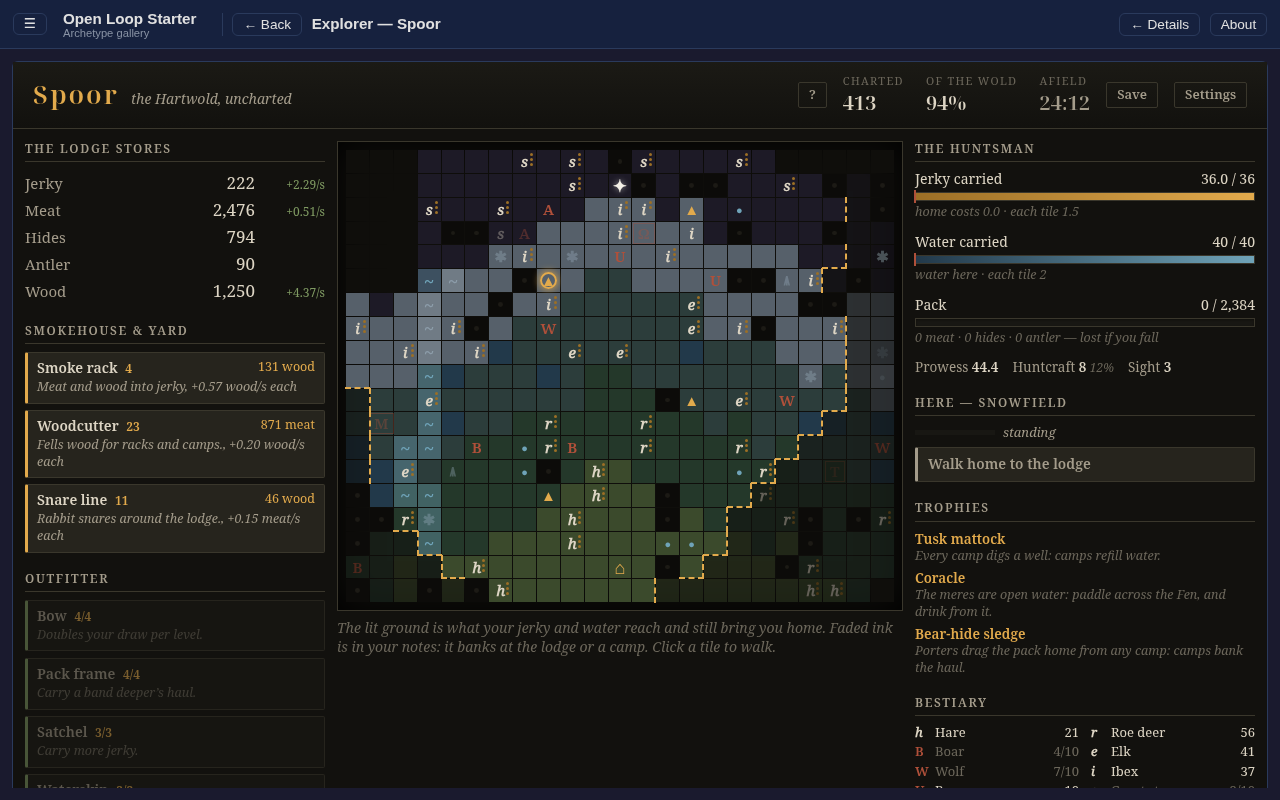
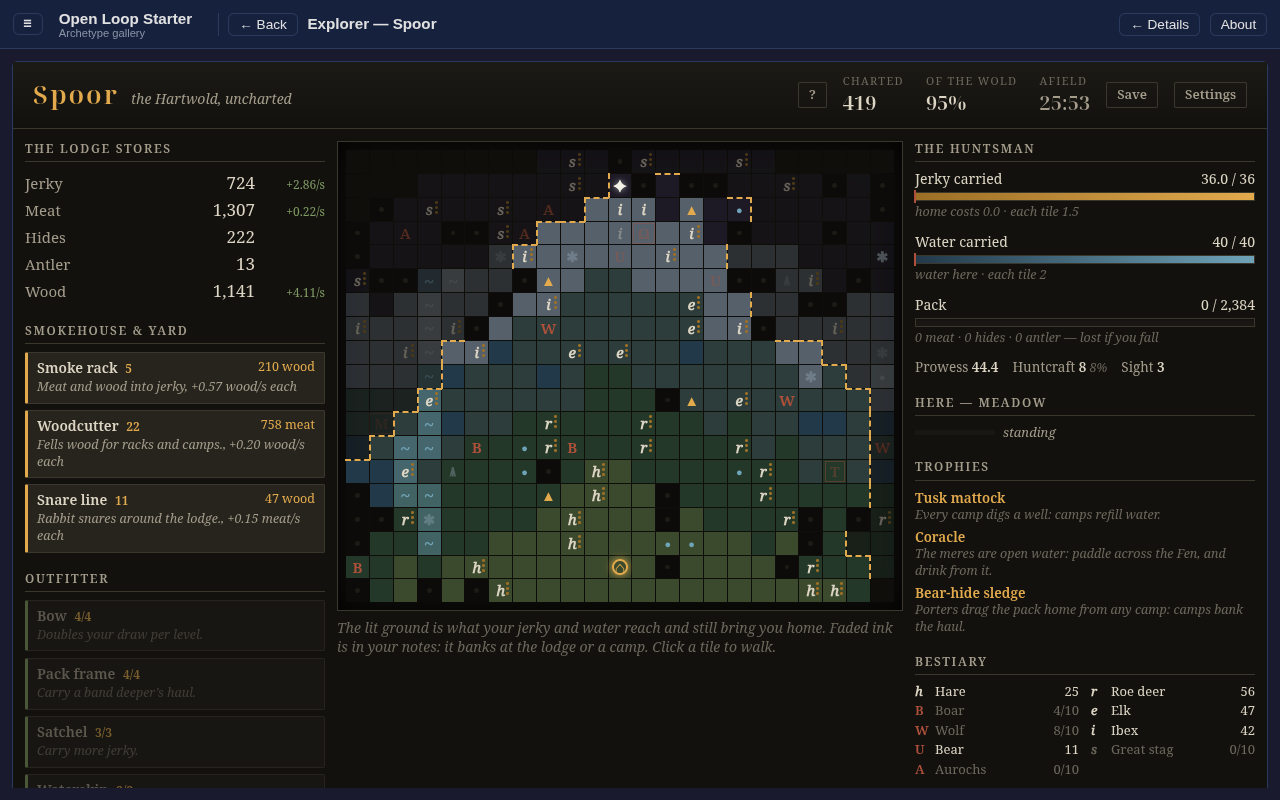
balance(explorer): the walker is a tick handler
seatWalker runs the walker every WALKER_EVERY game seconds on the tick driver; runArc and beat-saves seat it around runUntil, so until only reads. beat-saves reads its saves in a read-only handler registered before the seat, where the old loop read them: the walker leaves a restock point in the turn it arrives. Probes and beat windows are unchanged. 2-coracle and 3-deepwood were already stale against the game, so they are regenerated and re-shot.

Refs #63

diff --git a/src/showcase/archetypes/explorer/shots/beat-saves.ts b/src/showcase/archetypes/explorer/shots/beat-saves.ts
@@ -5,17 +5,18 @@
  * root `game.json`'s explorer card).
  *
  * Each save waits past its beat for the huntsman to stand idle at the lodge or
- * a camp: the notes are banked, and nothing walks on the reloaded screen.
+ * a camp before the walker's turn: the notes are banked, and nothing walks on
+ * the reloaded screen.
  *
  * Run: pnpm exec vite-node src/showcase/archetypes/explorer/shots/beat-saves.ts
  */
 import { writeFileSync } from 'node:fs';
 import { join } from 'node:path';
-import { seedRNG } from '@open-loop/engine';
+import { runUntil, seedRNG } from '@open-loop/engine';
 import { createExplorerEngine } from '../engine';
 import { getChronicle, getHuntsman, getWold } from '../modules';
 import { DT } from '../balance/_engine';
-import { createWalker } from '../balance/_walker';
+import { seatWalker } from '../balance/_walker';
 
 /** The arc probe's fastest default seed. */
 const SEED = 11;
@@ -23,13 +24,12 @@ const MAX_SIM = 3600;
 
 const { engine } = createExplorerEngine({ persistenceNamespace: 'beat-saves' });
 engine.start();
-engine.tickDriver.stop(); // the loop below drives the ticks
+engine.tickDriver.stop(); // runUntil below drives the ticks
 seedRNG(SEED);
 
 const chronicle = getChronicle();
 const man = getHuntsman();
 const wold = getWold();
-const walker = createWalker();
 
 const fired = (label: string) => chronicle.beats.value.some((b) => b.label === label);
 const calm = () => man.action.value === 'idle' && wold.isRestock(man.pos.value.x, man.pos.value.y);
@@ -43,16 +43,35 @@ const BEATS: { file: string; beat: string }[] = [
 
 const dir = import.meta.dirname;
 let next = 0;
-for (let sim = DT; sim < MAX_SIM && next < BEATS.length; sim += DT) {
-  engine.tickDriver.processInterval(DT);
-  if (fired(BEATS[next]!.beat) && calm()) {
-    const { file, beat } = BEATS[next]!;
-    writeFileSync(join(dir, `${file}.save`), engine.saveManager!.exportSave() + '\n');
-    const at = chronicle.beats.value.find((b) => b.label === beat)!.at;
-    console.log(`${file}: '${beat}' at ${at}s, saved at sim ${sim}s`);
-    next++;
-  }
-  walker.step();
+let pending: string | null = null;
+// Registered before the seat, so it reads each tick after the modules and before the walker's
+// turn. Once jerky is plentiful the walker leaves a restock point in the turn it arrives, so
+// after its turn the huntsman is seldom calm.
+const offRead = engine.tickDriver.onTick(() => {
+  if (pending === null && next < BEATS.length && fired(BEATS[next]!.beat) && calm())
+    pending = engine.saveManager!.exportSave();
+});
+const unseat = seatWalker(engine);
+try {
+  runUntil({
+    engine,
+    tickDelta: DT,
+    maxSimTime: MAX_SIM,
+    until: ({ simTime }) => {
+      if (pending !== null) {
+        const { file, beat } = BEATS[next]!;
+        writeFileSync(join(dir, `${file}.save`), pending + '\n');
+        const at = chronicle.beats.value.find((b) => b.label === beat)!.at;
+        console.log(`${file}: '${beat}' at ${at}s, saved at sim ${simTime}s`);
+        pending = null;
+        next++;
+      }
+      return next === BEATS.length;
+    },
+  });
+} finally {
+  unseat();
+  offRead();
 }
 if (next < BEATS.length) throw new Error(`stopped before beat ${BEATS[next]!.file}`);
 engine.dispose();

diff --git a/src/showcase/archetypes/explorer/balance/_engine.ts b/src/showcase/archetypes/explorer/balance/_engine.ts
@@ -20,7 +20,7 @@ import {
   getWold,
   type Beat,
 } from '../modules';
-import { createWalker } from './_walker';
+import { createWalker, seatWalker } from './_walker';
 
 /** Sim-seconds per tick: a step is 0.5s and a hunt 3s, so 0.25s resolves both. */
 export const DT = 0.25;
@@ -150,33 +150,35 @@ export function runArc(seed: number, maxSimSeconds = 3600): ArcRecord {
   let lossCursor = 0;
   let lastKey = '';
   let stuck = 0;
-  // TODO(expansion): a per-iteration act hook on runUntil. Until then `until` carries the
-  // walker's step, which `'uniform'` mode runs before every advance.
-  runUntil({
-    engine: handle.engine,
-    tickDelta: DT,
-    maxSimTime: maxSimSeconds,
-    until: ({ iteration, simTime }) => {
-      // Iteration 0 is the state before the first advance; the walker first steps after it.
-      if (iteration === 0) return chronicle.won.value;
-      sim = simTime;
-      walker.step();
-      const key = `${man.pos.value.x},${man.pos.value.y},${man.action.value},${wold.chartedCount.value}`;
-      stuck = key === lastKey ? stuck + DT : 0;
-      lastKey = key;
-      if (sim >= nextSnap) {
-        nextSnap += 180;
-        snapshots.push(snapshot(sim));
-      }
-      account();
-      const fresh = chronicle.log.since(lossCursor);
-      if (fresh.length) lossCursor = fresh[fresh.length - 1].seq;
-      if (fresh.some((e) => e.kind === 'bad')) losses++;
-      for (const r of Object.values(lodge.stores))
-        if (!Number.isFinite(toNumber(r.value))) throw new Error(`non-finite ${r.displayName}`);
-      return chronicle.won.value;
-    },
-  });
+  const unseat = seatWalker(handle.engine, walker);
+  try {
+    runUntil({
+      engine: handle.engine,
+      tickDelta: DT,
+      maxSimTime: maxSimSeconds,
+      until: ({ iteration, simTime }) => {
+        // Iteration 0 is the state before the first advance, which holds the walker's first turn.
+        if (iteration === 0) return chronicle.won.value;
+        sim = simTime;
+        const key = `${man.pos.value.x},${man.pos.value.y},${man.action.value},${wold.chartedCount.value}`;
+        stuck = key === lastKey ? stuck + DT : 0;
+        lastKey = key;
+        if (sim >= nextSnap) {
+          nextSnap += 180;
+          snapshots.push(snapshot(sim));
+        }
+        account();
+        const fresh = chronicle.log.since(lossCursor);
+        if (fresh.length) lossCursor = fresh[fresh.length - 1].seq;
+        if (fresh.some((e) => e.kind === 'bad')) losses++;
+        for (const r of Object.values(lodge.stores))
+          if (!Number.isFinite(toNumber(r.value))) throw new Error(`non-finite ${r.displayName}`);
+        return chronicle.won.value;
+      },
+    });
+  } finally {
+    unseat();
+  }
   snapshots.push(snapshot(sim));
 
   const record: ArcRecord = {

diff --git a/src/showcase/archetypes/explorer/balance/_walker.ts b/src/showcase/archetypes/explorer/balance/_walker.ts
@@ -4,8 +4,9 @@
  * The greedy walker: shop, then walk to the best reachable tile, hunt what is
  * there, and go home when the pack fills. The walker is balance-harness
  * tooling, not a mechanic. Spoor ships no automation, and no player-facing
- * tier would walk for you. The arc probe records an arc under it; the games
- * site's beat script saves at the arc's beats.
+ * tier would walk for you. `seatWalker` runs it on the engine's tick driver.
+ * The arc probe records an arc under it; the games site's beat script saves at
+ * the arc's beats.
  *
  * The walker stands in for the spine's reference player, so its rules are the
  * spine's assumptions:
@@ -20,7 +21,7 @@
  * `FIELD_FACTOR` is measured under these rules: change them and re-solve it.
  */
 
-import { toNumber, type GridCoord } from '@open-loop/engine';
+import { createThrottle, toNumber, type Engine, type GridCoord } from '@open-loop/engine';
 import { ANCHORS, LODGE, MAP_W, racksFor, speciesById, type GearId } from '../data';
 import { getChronicle, getHuntsman, getLodge, getWold } from '../modules';
 
@@ -36,7 +37,7 @@ const GEAR_ORDER: GearId[] = [
 ];
 
 export interface Walker {
-  /** One decision; call it after every tick. */
+  /** One decision; `seatWalker` takes one every `WALKER_EVERY` game seconds. */
   step(): void;
   /** the deepest band entered */
   deepestBand(): number;
@@ -257,4 +258,23 @@ export function createWalker(): Walker {
       return walkingToChart;
     },
   };
+}
+
+/** Game seconds between the walker's decisions: every probe tick, so no finished step waits. */
+export const WALKER_EVERY = 0.25;
+
+/**
+ * Seats the walker on the engine's tick driver: it takes one decision every `WALKER_EVERY`
+ * game seconds. The cadence holds while no tick is longer than `WALKER_EVERY`, whatever
+ * `tickDelta` the runner steps by, and a runner's `until` stays a read.
+ *
+ * @param engine - the running engine whose modules the walker works
+ * @param walker - the walker to seat, so a probe can read its band and its walk
+ * @returns the function that unseats the walker; call it when the run ends.
+ */
+export function seatWalker(engine: Engine, walker: Walker = createWalker()): () => void {
+  const turn = createThrottle({ interval: WALKER_EVERY });
+  return engine.tickDriver.onTick((dt) => {
+    if (turn.ready(dt)) walker.step();
+  });
 }
